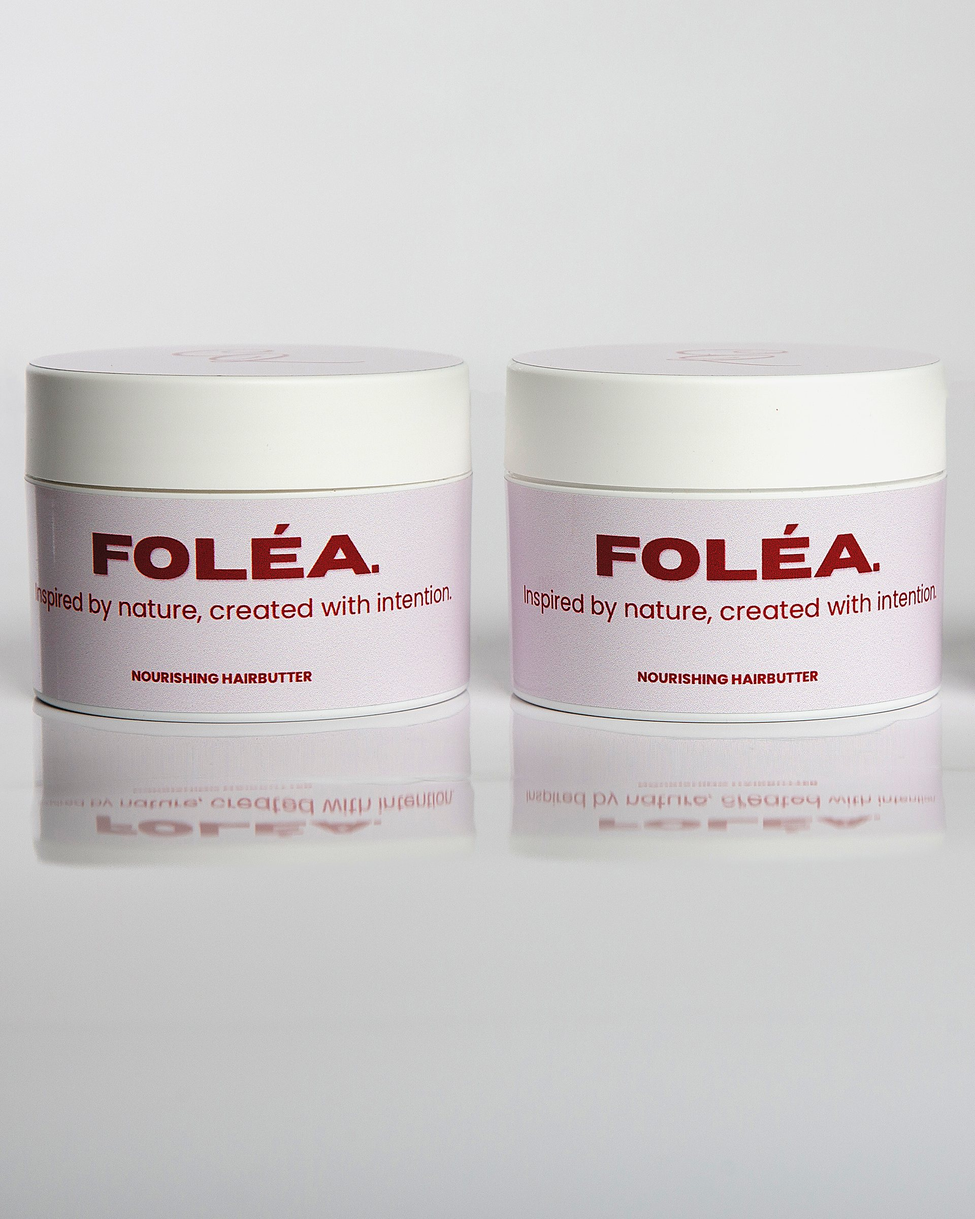
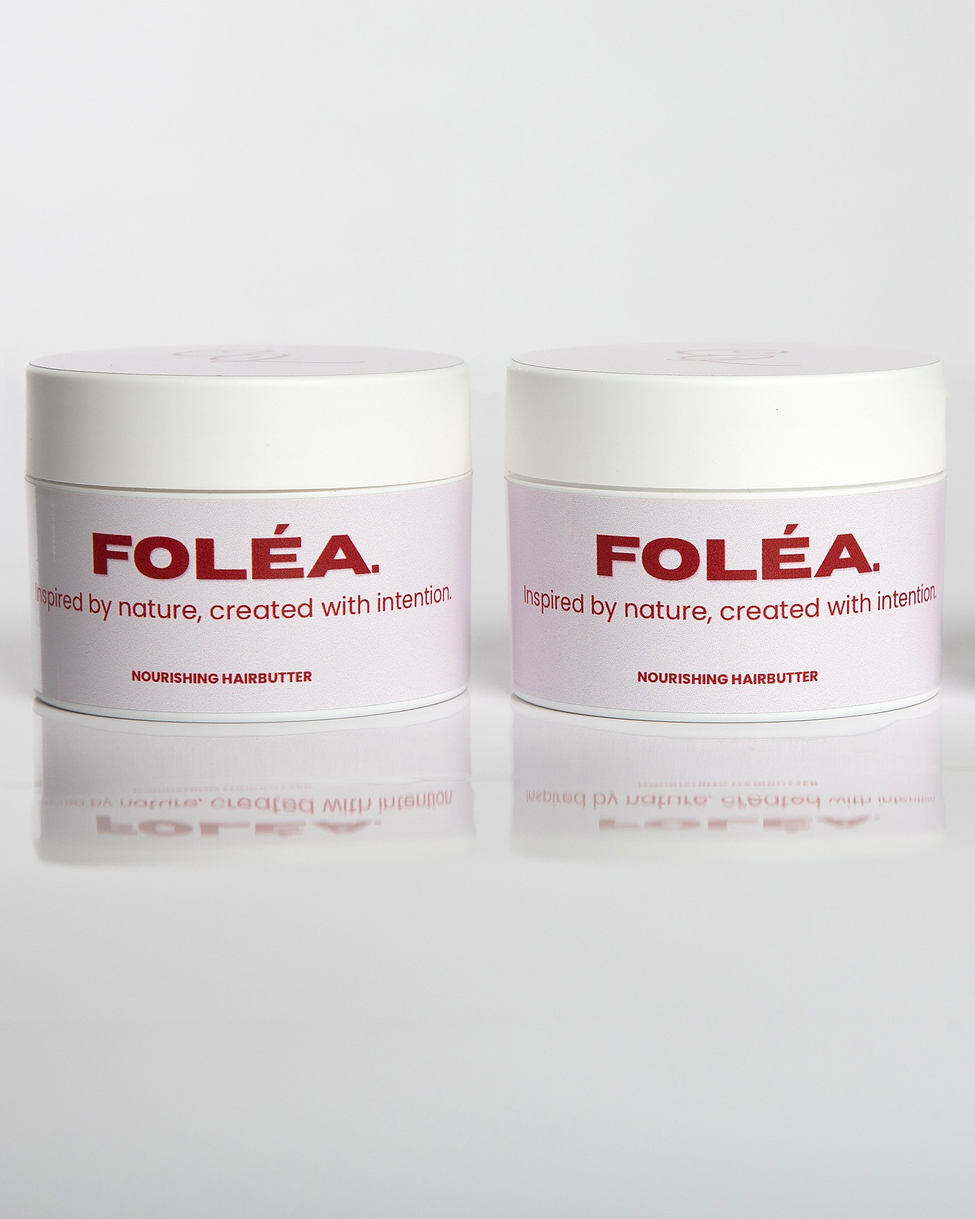
Grading omgedraaid: alleen optillen, drukwerk met rust laten
De vorige curve trok het zwartpunt omlaag om het bereik te verbreden. In
deze lichte opnames is het drukwerk juist het donkerste dat er is, dus
daarmee werden het logo en de tekst zichtbaar donkerder. Dat was precies
niet de bedoeling.

De curve laat nu alles onder 130 exact staan en tilt alleen daarboven op,
tot een witpunt van 250. De achtergrond en het witte deksel worden schoner
en het rood steekt er beter tegen af, zonder zelf van plek te komen.
Gemeten op dezelfde pixels: drukwerk beweegt 0,6 tot 3,7 punten in
helderheid en 0,4 tot 0,6 graden in tint.

Verscherping staat lager en op drempel 6, want bij een lage drempel
verscherpt hij de randen van de letters en geeft dat donkere zomen, wat
langs een andere weg hetzelfde probleem oplevert.

product-top is teruggezet naar de ongegradeerde versie op verzoek.
product-butter bleef ook nu onaangeraakt.

diff --git a/CLAUDE.md b/CLAUDE.md
@@ -184,9 +184,11 @@ The client's full studio shoot has been delivered and is in rotation. Nineteen s
 
 **Lighting was the second, separate complaint, and generative relighting is ruled out.** Measured tonal range on the shipped stills was 114 to 162 out of 255, with no true black and no clean highlight: that flatness is what reads as dull. One Higgsfield attempt (`seedream_v4_5`, 1 credit) proved the approach unusable here. Every image model in the catalogue takes the photo as `image_references`, not as a canvas to edit, so it re-shot the scene: the jar moved and shrank, the matte lid turned glossy, a hard cast shadow appeared, and the carmine drifted 33 points across RGB. The client's constraints (product unchanged, angle unchanged, no invented shadows, exact logo colour) cannot all hold while a model redraws the frame. Don't retry this with a different prompt; the failure is structural.
 
-What does work is grading from the master: per image, measure the 1st and 99th luminance percentile, map them 85% of the way toward a 20/247 black and white point with one LUT applied to all three channels, then a mild unsharp mask on the soft ones. The identical LUT per channel is what keeps hue intact. Verified by sampling the carmine pixels of the original and comparing the same coordinates after: hue moves 1.8 to 3.0 degrees on average, below the threshold where the eye reads a colour change, while saturation rises 10 to 18 percent, which is exactly the "less dull" the client asked for. **Measure hue as a circular mean over the same pixel set**; averaging raw hue angles across the 0/360 wrap, or re-detecting red pixels after the change, produces nonsense values in the 40 to 95 degree range.
+What does work is grading from the master, but **only upward**. The first attempt pulled the black point down to widen the range, and the client caught it immediately: in these high-key frames the darkest pixels *are* the printed label, so lowering the black point literally darkens the logo and the type. Measure the print first (it sits at luminance 73 to 99 here, against a 190 to 215 background), then use a curve that is identity below ~130 and lifts only above it, taking the white point to 250. That leaves the print untouched while the backdrop and the white lid clean up, so the carmine gains contrast against its surroundings instead of losing weight. Verified per image on the same pixel coordinates: print luminance moves 0.6 to 3.7 points and hue 0.4 to 0.6 degrees.
 
-`product-butter` is deliberately excluded from the grading pass. The client calls it perfect and it is the only still with a real background falloff (measured 88 against 14 on `product-top`), which is why it reads better than the rest. There is no from-above frame of the jar in the shoot beyond `product-top`, so a new angle can only come from a reshoot.
+Keep unsharp masking mild and raise its threshold to about 6. At a low threshold it sharpens the edges of the printed type and adds dark halos, which reads as the same "the text got darker" problem by another route.
+
+`product-butter` and `product-top` are excluded from the grading pass. The client calls it perfect and it is the only still with a real background falloff (measured 88 against 14 on `product-top`), which is why it reads better than the rest. There is no from-above frame of the jar in the shoot beyond `product-top`, so a new angle can only come from a reshoot.
 
 The crop pass is reproducible: find the product's bounding box by thresholding brightness (white jar against grey seamless) plus the red-minus-blue channel (pink label and carmine type), pad it, force the box to 4:5, then encode from the master with `cjpeg -quality 84 -optimize -progressive`. **Detect the box with a generous threshold**: a strict one clips the jars' soft edges, and the first pass cut a jar in half at the frame edge. `product-trio` additionally needs its right edge clamped into the gap between the second and third jar, otherwise a sliver of the third jar hangs in frame.
 
